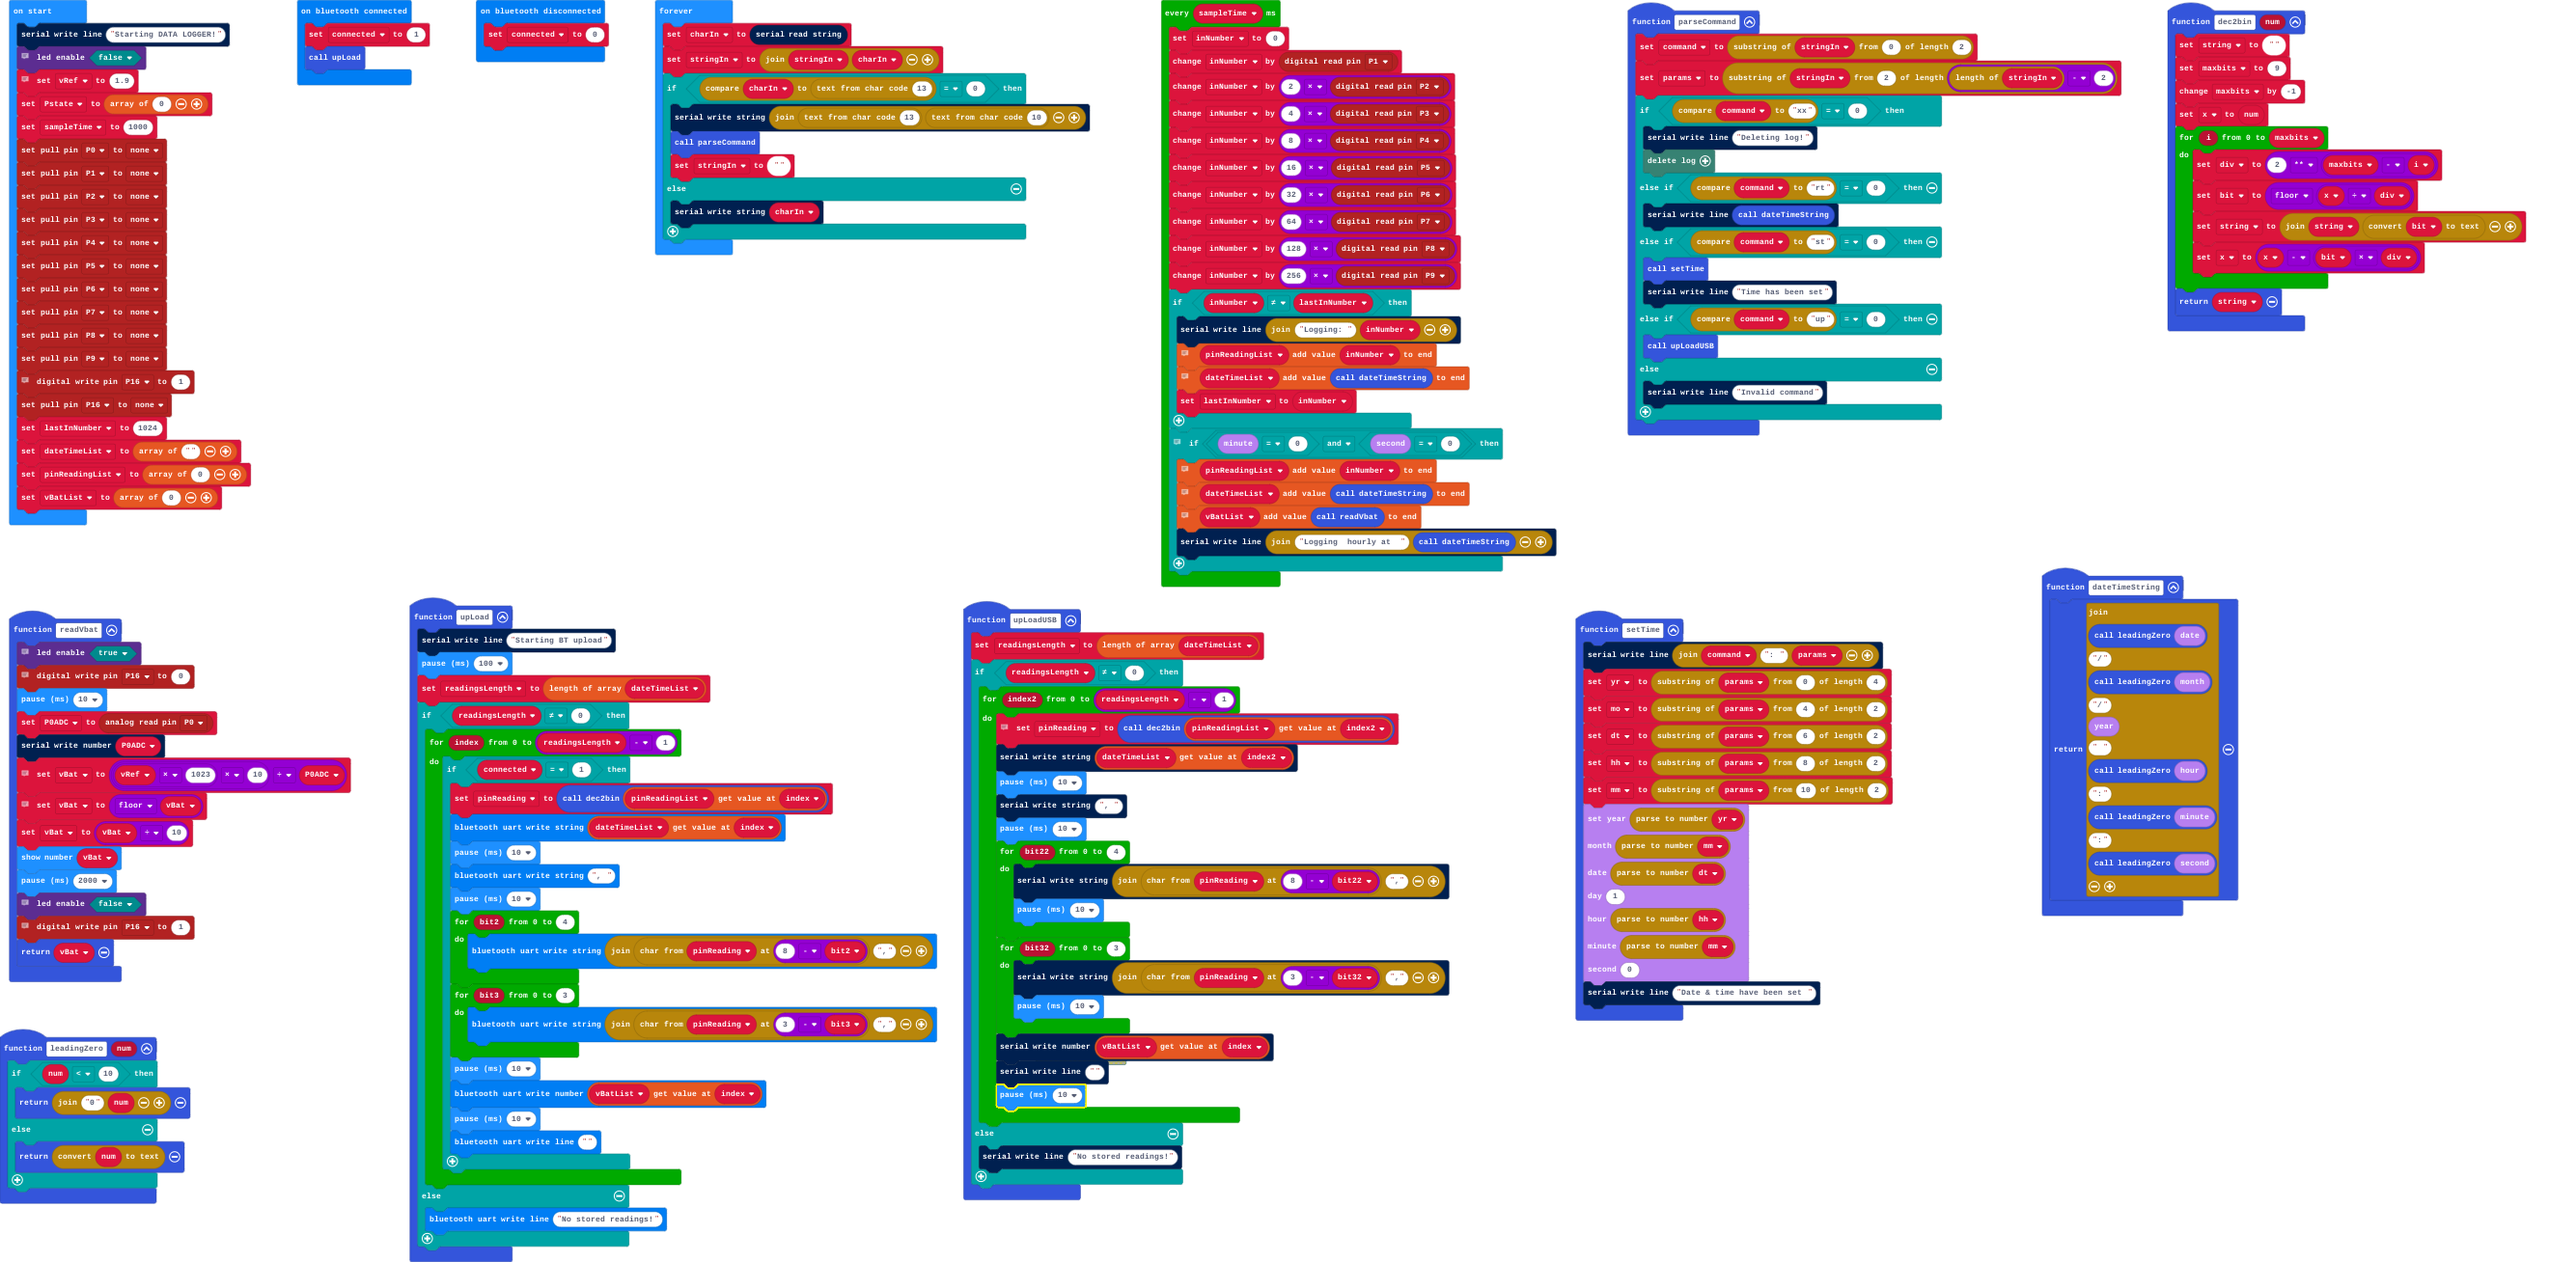
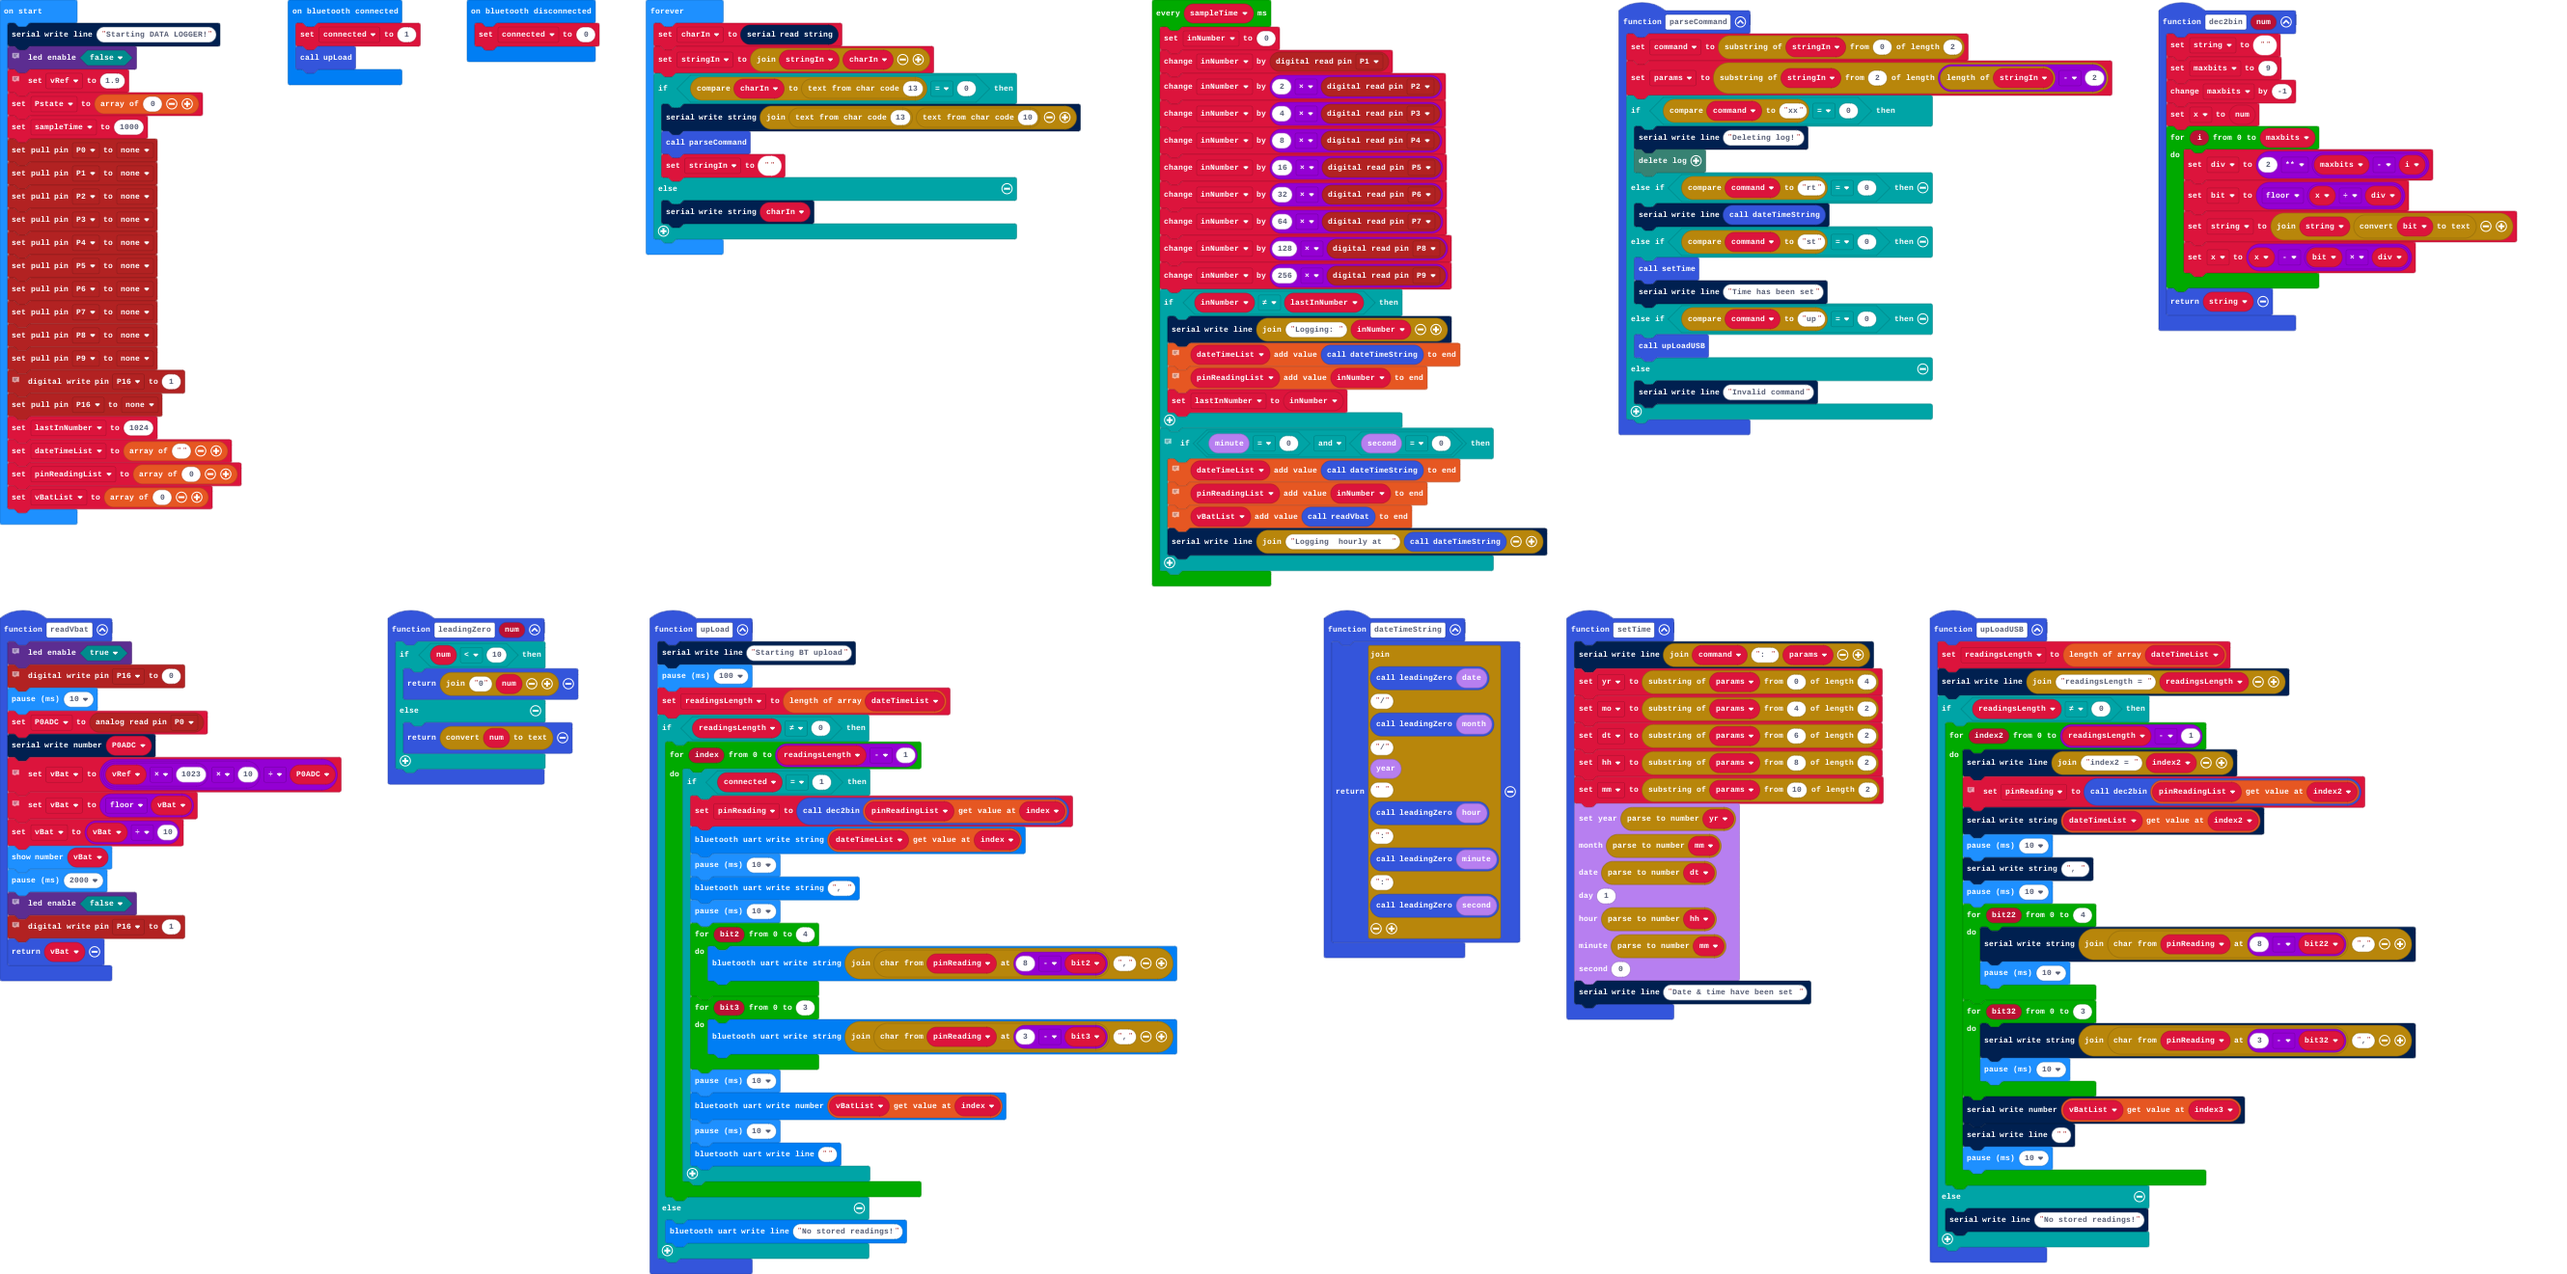
debugging missing 1st datetime

diff --git a/main.ts b/main.ts
@@ -114,9 +114,11 @@ function setTime () {
 }
 function upLoadUSB () {
     readingsLength = dateTimeList.length
+    serial.writeLine("readingsLength = " + readingsLength)
     if (readingsLength != 0) {
         for (let index2 = 0; index2 <= readingsLength - 1; index2++) {
-            let index = 0
+            let index3 = 0
+            serial.writeLine("index2 = " + index2)
             // convert number from pins to binary string
             pinReading = dec2bin(pinReadingList[index2])
             serial.writeString(dateTimeList[index2])
@@ -131,7 +133,7 @@ function upLoadUSB () {
                 serial.writeString("" + pinReading.charAt(3 - bit32) + ",")
                 basic.pause(10)
             }
-            serial.writeNumber(vBatList[index])
+            serial.writeNumber(vBatList[index3])
             serial.writeLine("")
             basic.pause(10)
         }
@@ -211,18 +213,18 @@ loops.everyInterval(sampleTime, function () {
     inNumber += 256 * pins.digitalReadPin(DigitalPin.P9)
     if (inNumber != lastInNumber) {
         serial.writeLine("Logging: " + inNumber)
-        // store pin state
-        pinReadingList.push(inNumber)
         // store timestamp
         dateTimeList.push(dateTimeString())
+        // store pin state
+        pinReadingList.push(inNumber)
         lastInNumber = inNumber
     }
     // Make a reading once every hour as a heartbeat
     if (DS3231.minute() == 0 && DS3231.second() == 0) {
-        // store pin state
-        pinReadingList.push(inNumber)
         // store timestamp
         dateTimeList.push(dateTimeString())
+        // store pin state
+        pinReadingList.push(inNumber)
         // store timestamp
         vBatList.push(readVbat())
         serial.writeLine("Logging  hourly at  " + dateTimeString())
